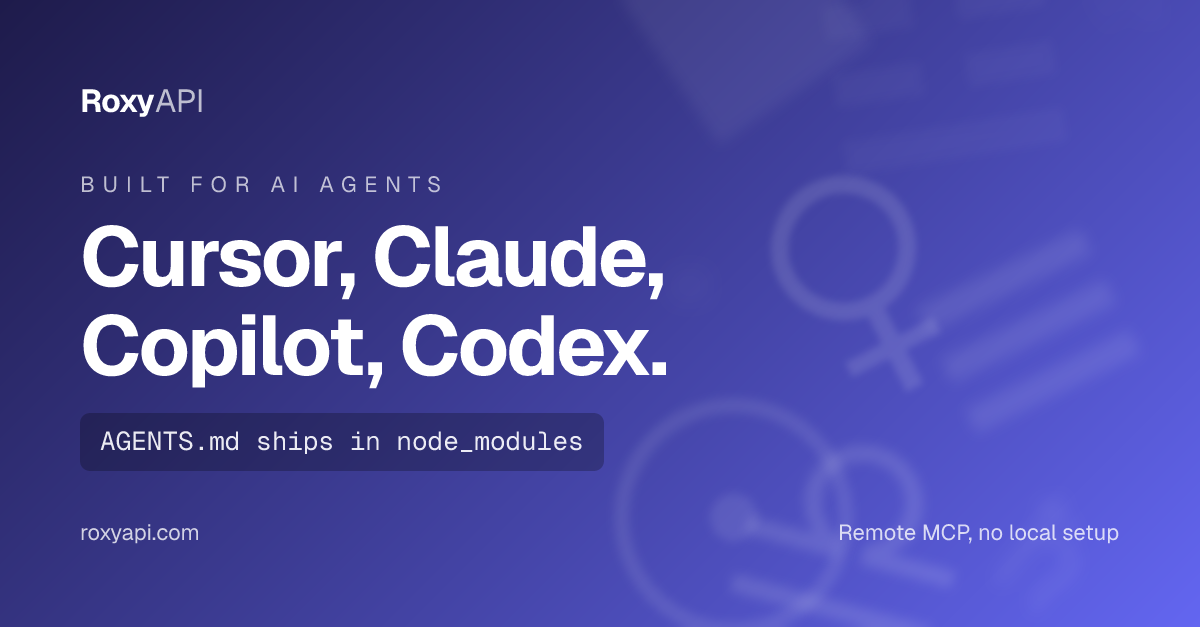
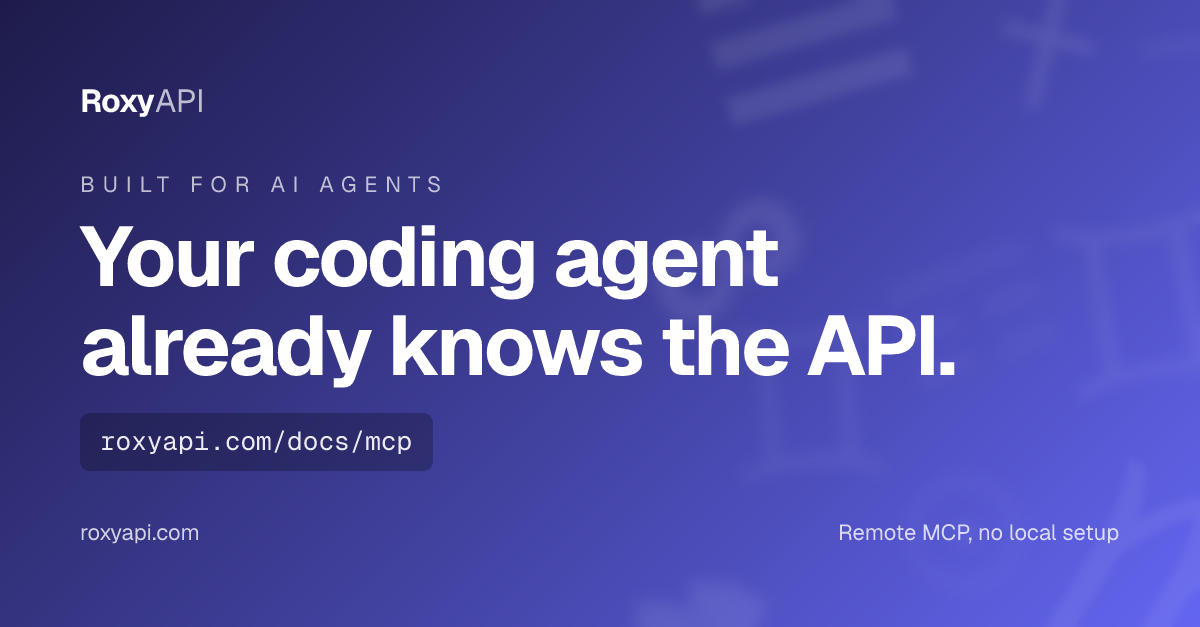
docs: agents card sells the outcome, Remote MCP casing

Changed region(s): [[0.0617, 0.3333, 0.8017, 0.6364], [0.0617, 0.6364, 0.5242, 0.7576], [0.6475, 0.9394, 0.6783, 0.9697]]

diff --git a/README.md b/README.md
@@ -450,7 +450,7 @@ const { data: sequence } = await roxy.angelNumbers.analyzeNumberSequence({ query
 ## Built for AI agents (Cursor, Claude Code, Copilot, Codex, Gemini CLI)
 
 <p align="center">
-  <img src="https://raw.githubusercontent.com/RoxyAPI/sdk-typescript/main/assets/agents.png" alt="Built for Cursor, Claude, Copilot, Codex. AGENTS.md ships in node_modules, remote MCP, no local setup." width="100%">
+  <img src="https://raw.githubusercontent.com/RoxyAPI/sdk-typescript/main/assets/agents.png" alt="Your coding agent already knows the API. Built for AI agents, Remote MCP, no local setup." width="100%">
 </p>
 
 This package ships with bundled documentation that AI coding agents read directly from `node_modules/`:
@@ -460,7 +460,7 @@ This package ships with bundled documentation that AI coding agents read directl
 
 Agents supporting `AGENTS.md` (Claude Code, Cursor, GitHub Copilot, OpenAI Codex, Gemini CLI) will pick it up automatically. For other tools, point your agent to `node_modules/@roxyapi/sdk/AGENTS.md`.
 
-Prefer MCP? Every domain has a [remote MCP server](https://roxyapi.com/docs/mcp) at `https://roxyapi.com/mcp/{domain}` (Streamable HTTP, no stdio, no self-hosting). One-line Claude Code setup:
+Prefer MCP? Every domain has a [Remote MCP server](https://roxyapi.com/docs/mcp) at `https://roxyapi.com/mcp/{domain}` (Streamable HTTP, no stdio, no self-hosting). One-line Claude Code setup:
 
 ```bash
 claude mcp add-json --scope user roxy-astrology \
